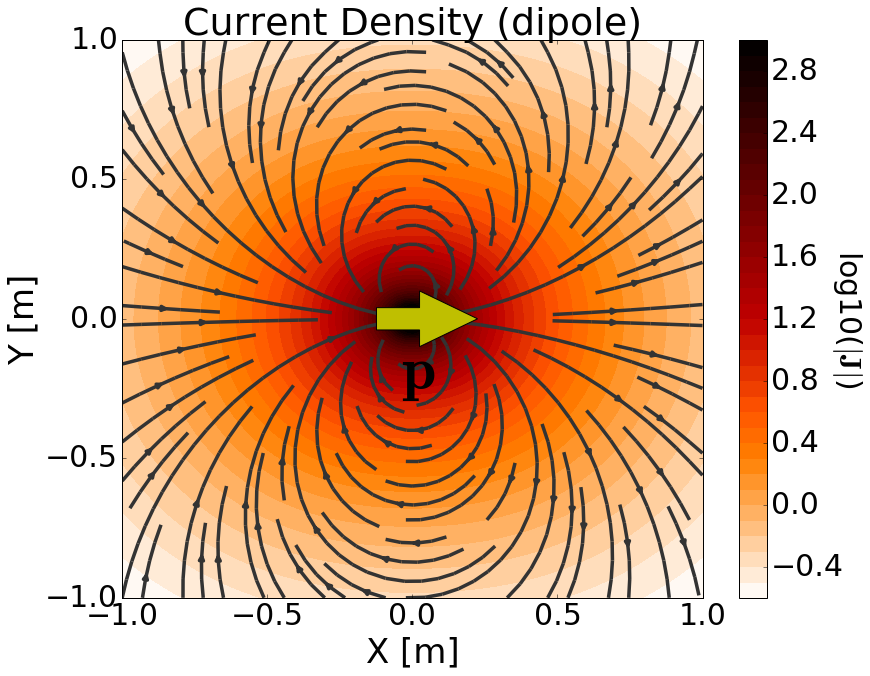
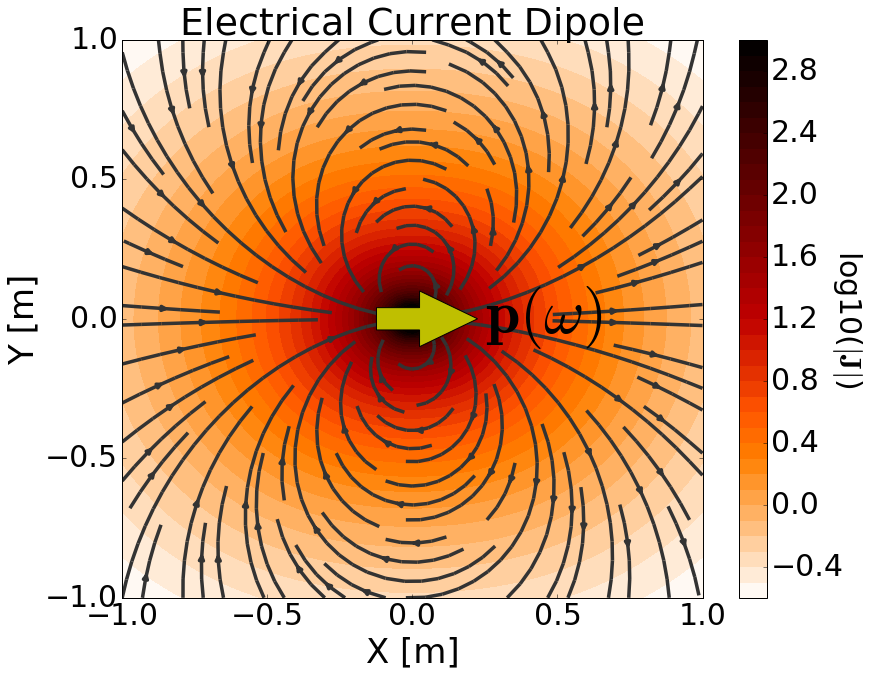
Harmonic electric and magnetic dipole done

Changed region(s): [[0.1862, 0.0, 0.7448, 0.0621], [0.5586, 0.4349, 0.7138, 0.5281], [0.4655, 0.5281, 0.4966, 0.5902]]

diff --git a/content/maxwell1_fundamentals/maxwells_equations/maxwells_equations_in_homogeneous_media/dipole_sources/magnetic_dipole_frequency/index.rst b/content/maxwell1_fundamentals/maxwells_equations/maxwells_equations_in_homogeneous_media/dipole_sources/magnetic_dipole_frequency/index.rst
@@ -10,122 +10,49 @@ Harmonic Magnetic Dipole
 
 
 
+The harmonic magnetic dipole can be thought of as an infinitessimally small loop which carries a harmonic current.
+The strength of the source is therefore defined by a harmonic dipole moment :math:`\mathbf{m}(\omega)`.
+For a harmonic magnetic dipole defined by vector surface area :math:`\mathbf{S}` and harmonic current :math:`I(\omega) = I e^{i\omega t}`, the dipole moment is given by:
+
+
 .. figure:: images/H_source_magnetic_dipole.png
 		:align: right
 		:figwidth: 50%
 		:name: MagDipole
 		
-		Physical representation of the magnetic dipole source.
+		Physical representation of the magnetic dipole source where :math:`\mathbf{m}` = 1 Am :math:`\!^2`.
 
 
-There are two commonly used models for the magnetic dipole.
-The first model describes the magnetic dipole as an infinitessimally small volume of magnetized material (i.e. a very small bar magnet).
-The second model describes the magnetic dipole using an infinitessimally small current loop.
-In both cases, the strength of the magnetic dipole source is defined by its dipole moment (:math:`\mathbf{m}`).
-A physical representation of the magnetic dipole moment and the primary magnetic field it creates is shown in :numref:`MagDipole`.
+.. math::
+	\mathbf{m} (\omega) = \mathbf{m} \, e^{i\omega t} = I \mathbf{S} \, e^{i\omega t}
+	
+
+where :math:`\mathbf{m} = I \mathbf{S}` is the vector amplitude of the dipole moment.
+When formulating Maxwell's equations in the frequency domain, :math:`e^{i\omega t}` is generally suppressed.
+As a result, the source term for the harmonic magnetic dipole is given by:
 
 
+.. math::
+	\mathbf{J_m (r)} = -I\mathbf{S} \, \delta (x) \delta (y) \delta (z)
 
-**Magnetized Volume Model**
 
+where :math:`\delta (x)` is the Dirac delta function.
+By including the source term, Maxwell's equations in the frequency domain are given by:
 
-This model derives the magnetic dipole source by considering a volume of uniformly magnetized material; in other words, a bar magnet.
-Let us assume the volume has uniform magnetization :math:`\mathbf{M}` and has dimensions :math:`\Delta x`, :math:`\Delta y` and :math:`\Delta z`; giving it a volume of :math:`\Delta V`.
-The resulting magnetic source term is given by:
 
 .. math::
 	\begin{split}
-	\mathbf{J_m (r)}\! =\! i \omega \mu \mathbf{M} \Delta V & \!\Bigg [ \! \frac{u \big ( x \! +\!\frac{\Delta x}{2} \big ) \! - \! u \big ( x \! -\!\frac{\Delta x}{2} \big )}{\Delta x} \! \Bigg ] ... \\ 
-	& \;\;\;\;\;\;\;\;\;\;\;\;\;\;\; \! \Bigg [ \! \frac{u \big ( y \! +\!\frac{\Delta y}{2} \big ) \! - \! u \big ( y \! -\!\frac{\Delta y}{2} \big )}{\Delta y} \! \Bigg ] \! 
-	\! \Bigg [ \! \frac{u \big ( z \! +\!\frac{\Delta z}{2} \big ) \! - \! u \big ( z \! -\!\frac{\Delta z}{2} \big )}{\Delta z} \! \Bigg ]
+	\nabla \times \mathbf{E} &+ i \omega \mu \mathbf{H} = - I \mathbf{S} \, \delta(x) \delta(y) \delta(z)  \\
+	&\nabla \times \mathbf{H} - \sigma \mathbf{E} = 0
 	\end{split}
 
 
-where :math:`u(x)` is the unit step function and :math:`\mathbf{J_m(r)}` defines a magnetic current density (link).
-Thus :math:`\mathbf{J_m (r)}` can be used to replace the magnetic source term in Maxwell's equations for a uniformly magnetized block.
 
-In :numref:`BarMagnet`, we consider the fields from a uniformly magnetized volume with :math:`\mathbf{M} = M\hat y`.
-As we see can see from :numref:`BarMagnet`, the magnetization contained within the volume generate a primary magnetic field in the surrounding region.
-Notice how the field lines seem to begin at the north end of the magnetized volume and terminate at the south :numref:`BarMagnet` (left).
-When the volume is much smaller than the scale of observation, then it appears as though the magnetic field lines converge at a single point; which we see in :numref:`BarMagnet` (right).
+The source is responsible for generating a primary magnetic field in the surrounding region (:numref:`ElecDipole`).
+According to :ref:`Faraday's law<faraday_differential_frequency>`, the harmonic nature of the primary magnetic field generates rotational electric fields.
+In matter, this leads to an induced current density which produces secondary magnetic fields according to the :ref:`Ampere-Maxwell equation<ampere_maxwell_differential_frequency>`.
+In the following section, we solve Maxwell's equations for a harmonic magnetic dipole source and provide analytic expressions for the electric and magnetic fields within a homogeneous medium.
 
-
-
-.. figure:: images/H_source_bar_magnet.png
-		:align: center
-		:figwidth: 100%
-		:name: BarMagnet
-
-        	Magnetic field due to a uniformly magnetized volume. Large volume (left). Small volume (right).
-
-
-Magnetic dipoles can be used to approximate fields due to very small magnetized volumes when the scale of observation is sufficiently large.
-This accomplished by defining a source term which exists at a single point in space.
-From the previous expression, the magnetic dipole source is obtained by letting :math:`\Delta x , \, \Delta y , \, \Delta z \rightarrow dx, \, dy , \, dz` ; in other words by letting :math:`\Delta V \rightarrow dV`.
-Thus the source term for a harmonic magnetic dipole is given by:
-
-
-.. math::
-	\mathbf{J_m (r)} = - i \omega \mu \mathbf{M} dV \delta (x) \delta (y) \delta (z)
-	
-
-where :math:`\delta (x)` is the Dirac delta function.
-The strength of the magnetic dipole source is defined by its **dipole moment** (:math:`\mathbf{m}`).
-As we can see from the previous expression, the source term depends on the product :math:`\mathbf{M} dV`.
-Thus the dipole moment which defines the magnetic dipole source is given by:
-
-.. math::
-	\mathbf{m} = \mathbf{M} dV
-
-
-For a finite magnetized rectangular block (:numref:`BarMagnet` left), the magnetic field outside the source region can be calculated according to Sharma (1966); a better example can be found in Varga.
-By taking the limit as :math:`\Delta x , \, \Delta y , \, \Delta z \rightarrow dx, \, dy , \, dz`, the general expression for a block reduces to (:numref:`BarMagnet` right):
-
-.. math::
-	\mathbf{H_{dip}(r)} = \frac{1}{4\pi} \Bigg [ \frac{3 \mathbf{r (m \cdot r)} }{r^5} - \frac{\mathbf{m}}{r^3} \Bigg ]
-
-
-
-
-
-**Current Loop Model**
-
-
-Magnetic fields are generated by the movement of electric charges (i.e. electric current).
-Because of this, a magnetized volume in itself does not represent a physical source.
-We will show that the magnetic dipole source term can be obtained by considering an infinitessimally small loop of current.
-Although our derivation of the dipole moment will be done in free-space, the resulting source term can be used for any problem.
-
-In free-space, the primary magnetic field due to a current carrying wire is given by the Biot-Savart law (link):
-
-.. math::
-	\mathbf{H}
-
-
-
-
-
-
-
-
-
-For this model, let us consider a circular wire of radius :math:`a` which carries a current :math:`I`.
-Within a homogeneous media, this current loop should have a vector potential:
-
-.. math::
-	\mathbf{A (r)} = \frac{\mu I}{4\pi} \oint \frac{1}{\mathbf{r}^\prime} d\mathbf{l}^\prime
-
-
-
-
-
-
-.. figure:: images/H_source_current_loop.png
-		:align: center
-		:figwidth: 100%
-		:name: CurrentLoop
-
-        	Magnetic field due to a loop of current. Large current loop (left). Small current loop (right).
 
 
 

diff --git a/content/maxwell1_fundamentals/maxwells_equations/maxwells_equations_in_homogeneous_media/dipole_sources/electric_dipole_frequency/index.rst b/content/maxwell1_fundamentals/maxwells_equations/maxwells_equations_in_homogeneous_media/dipole_sources/electric_dipole_frequency/index.rst
@@ -13,106 +13,51 @@ Harmonic Electrical Current Dipole
 **General Description**
 
 
+
+The harmonic electrical current dipole can be thought of as an infinitesimally short length of wire which carries a harmonic current.
+The strength of the source is therefore defined by a harmonic dipole moment :math:`\mathbf{p}(\omega)`.
+For a harmonic current dipole defined by length :math:`ds` and harmonic current :math:`\mathbf{I} (\omega) = \mathbf{I}e^{i\omega t}`, the dipole moment is given by:
+
+
 .. figure:: images/E_source_current_dipole.png
 		:align: right
 		:figwidth: 50%
+		:name: CurrentWire
 
         	Physical representation of the harmonic electrical current dipole source where :math:`\mathbf{p}` = 1 Am.
 
 
 
-If we treat the electrical current dipole source as an infinitesimally short length of wire, then it must carry a harmonic current.
+.. math::
+	\mathbf{p}(\omega) = \mathbf{p} \, e^{i\omega t} = \mathbf{I} ds \, e^{i\omega t}
 
 
-The electrical current dipole can be thought of as an infinitesimally short length of wire which carries a current.
-For a harmonic electrical current dipole, 
+where :math:`\mathbf{p} = \mathbf{I}ds` is the vector amplitude of the dipole moment.
+When formulating Maxwell's equations in the frequency domain, :math:`e^{i\omega t}` is generally suppressed.
+As a result, the source term for the harmonic electrical current dipole is given by:
 
 
 .. math::
-	\mathbf{p}(\omega) = \mathbf{I} ds \, e^{i\omega t}
-
-
-The strength of the source is defined by its dipole moment (:math:`\mathbf{p}`).
-This leads to an electrical source term of the form:
-
-.. math::
-	\mathbf{J_e } = \mathbf{p} \delta (x) \delta (y) \delta (z)
+	\mathbf{J_e (r)} = \mathbf{I}ds \, \delta (x) \delta (y) \delta (z)
 
 
 where :math:`\delta (x)` is the Dirac delta function.
-The source current is responsible for generating a primary current density in the surrounding region; secondary electric and magnetic fields are discussed later.
-This is illustrated in :numref:`ElecDipole`.
-In many cases, the term 'electric dipole source' is used instead.
-However, a true electric dipole represents the polarization of electrical charges of opposite sign.
-
-
-**Primary Current Density from a Finite Wire**
-
-
-In order to develop a proper definition for the electrical current dipole, let us first consider the source current from a wire of finite length.
-Assume the wire has length :math:`\Delta s` and carries a current :math:`I` which flows in the :math:`\hat x` direction along the wire.
-The source current density :math:`\mathbf{J_e (r)}` for the wire segment is given by:
-
-.. math::
-	\mathbf{J_e (r)} = \hat x I \Delta s \Bigg [ \frac{\textrm{u}\big (x + \frac{\Delta s}{2} \big ) - \textrm{u} \big ( x - \frac{\Delta s}{2} \big )}{\Delta s} \Bigg ] \delta (y) \delta (z)
-
-
-
-where :math:`u(x)` is the unit step function and :math:`\delta (x)` is the Dirac delta function.
-In Maxwell's equations, :math:`\mathbf{J_e (r)}` defines the electrical source term.
-
-As we can see from :numref:`FiniteWire`, the source generates a current density (:math:`\mathbf{J}`) in the surrounding region.
-Notice how the current flows out one end of the wire and into the other :numref:`FiniteWire` (left).
-When the wire segment is much smaller than the scale of observation, then it appears as though the current density converges at a single point; which we see in :numref:`FiniteWire` (right).
-The purpose of the electrical current dipole is to approximate a finite wire segment when observation scales are much larger than the wire's length. 
-The electrical current dipole accomplishes this by defining a source term which exists at a single point in space.
-
-
-
-
-
-**Defining the Electrical Current Dipole**
-
-The electrical current dipole source is defined by letting :math:`\Delta s \rightarrow ds` in the previous equation; making it a wire of infinitessimal length.
-As a result, the source current density for a harmonic electrical current dipole in the :math:`\hat x` direction is given by:
-
-
-
+By including the source term, Maxwell's equations in the frequency domain are given by:
 
 
 .. math::
-	\mathbf{J_e(r)} = \hat x I ds \delta (x) \delta (y) \delta (z)
-
-
-By examining :numref:`CurrentDipole`, we see that the current density in the surrounding region converges to a single point; just like in :numref:`FiniteWire` (right).
-However like a wire segment, current still flows outwards from one side of the source and into the other.
-
-
-If we consider an electrical current dipole oriented in an arbitrary direction, the source current becomes a vector (:math:`\mathbf{I}`).
-Thus, the source current density for an electrical current dipole is given by:
-
-.. math::
-	\mathbf{J_e (r)} = \mathbf{I}ds \, \delta (x) \delta (y) \delta (z) 
-
-
-
-The strength of the electrical current dipole source is defined by its **dipole moment** (:math:`p`).
-As we can see from the previous equation, the source term depends on the product :math:`\mathbf{I} ds`.
-Thus the dipole moment for an electrical current dipole source is given by:
-
-.. math::
-	\mathbf{p} = \mathbf{I}ds
-	
-
-and
-
-
-.. math::
-	\mathbf{J_e (r)} = \mathbf{p} \, \delta (x) \delta (y) \delta (z) 
+	\begin{split}
+	&\nabla \times \mathbf{E} + i \omega \mu \mathbf{H} = 0  \\
+	\nabla \times \mathbf{H} &- \sigma \mathbf{E} = \mathbf{I}ds \, \delta(x) \delta(y) \delta(z)
+	\end{split}
 
 
 
 
+The source current is responsible for generating a primary current density (and electric field) in the surrounding region (:numref:`ElecDipole`).
+However, the :ref:`Ampere-Maxwell equation<ampere_maxwell_differential_frequency>` states that time-varying electric fields and the movement of free current generates magnetic fields.
+In addition, the harmonic nature of the magnetic fields should produce secondary electric fields according to :ref:`Faraday's law<faraday_differential_frequency>`.
+In the following section, we solve Maxwell's equations for a harmonic electrical current dipole source and provide analytic expressions for the electric and magnetic fields within a homogeneous medium.
 
 
 

diff --git a/content/maxwell1_fundamentals/maxwells_equations/maxwells_equations_in_homogeneous_media/dipole_sources/electric_dipole_frequency/analytic_solution.rst b/content/maxwell1_fundamentals/maxwells_equations/maxwells_equations_in_homogeneous_media/dipole_sources/electric_dipole_frequency/analytic_solution.rst
@@ -3,7 +3,7 @@
 Analytic Solution
 =================
 
-.. topic:: Purpose
+.. Purpose::
 
     Here, Maxwell's equations are solved for a harmonic electrical current dipole source.
     This is accomplished by using the method of Schelkunoff potentials, as shown in Ward and Hohmann (:cite:`ward1988`).
